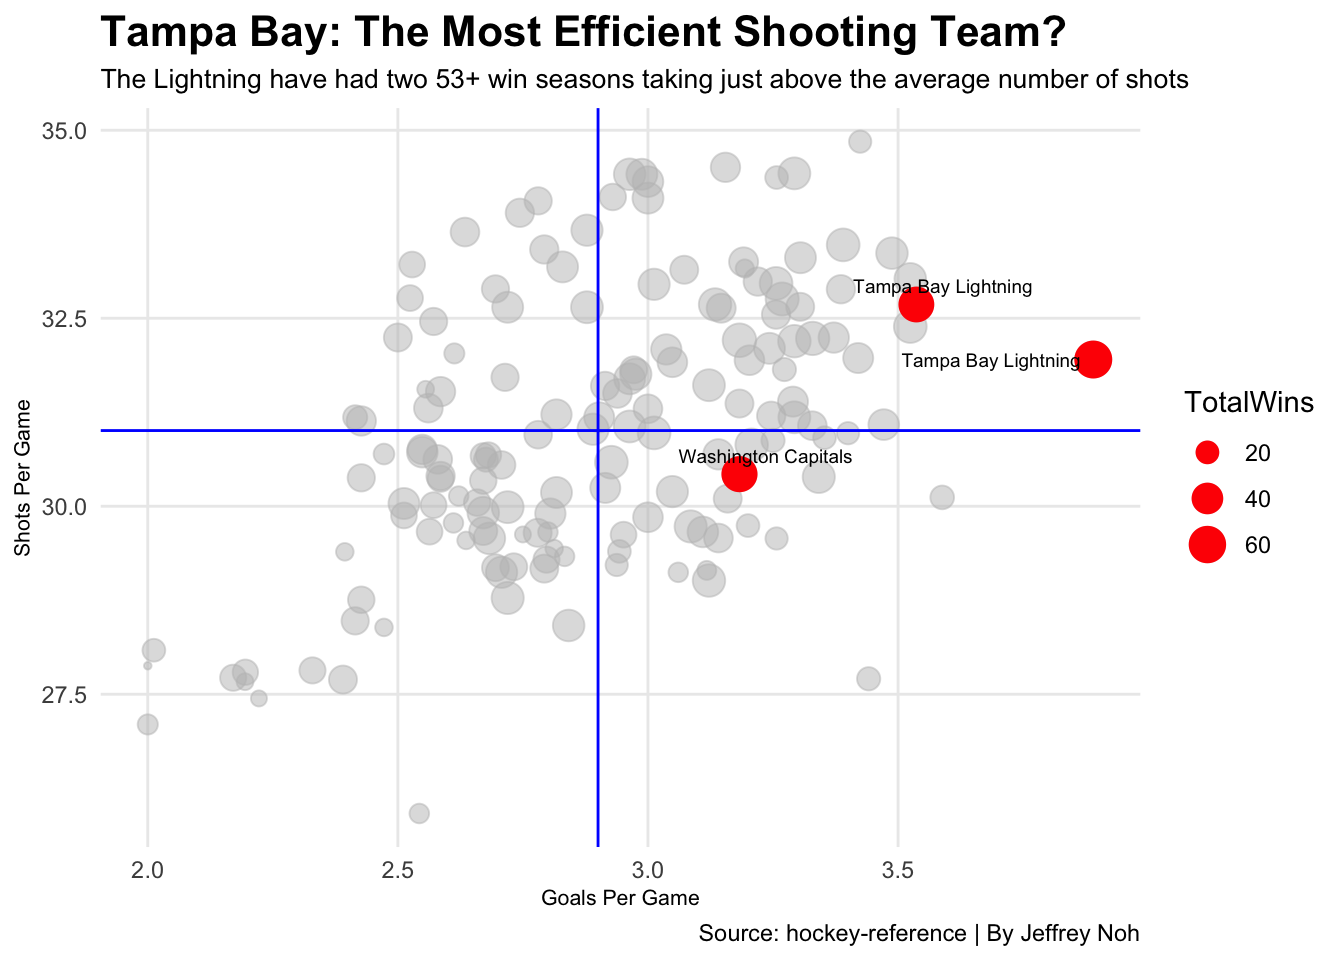
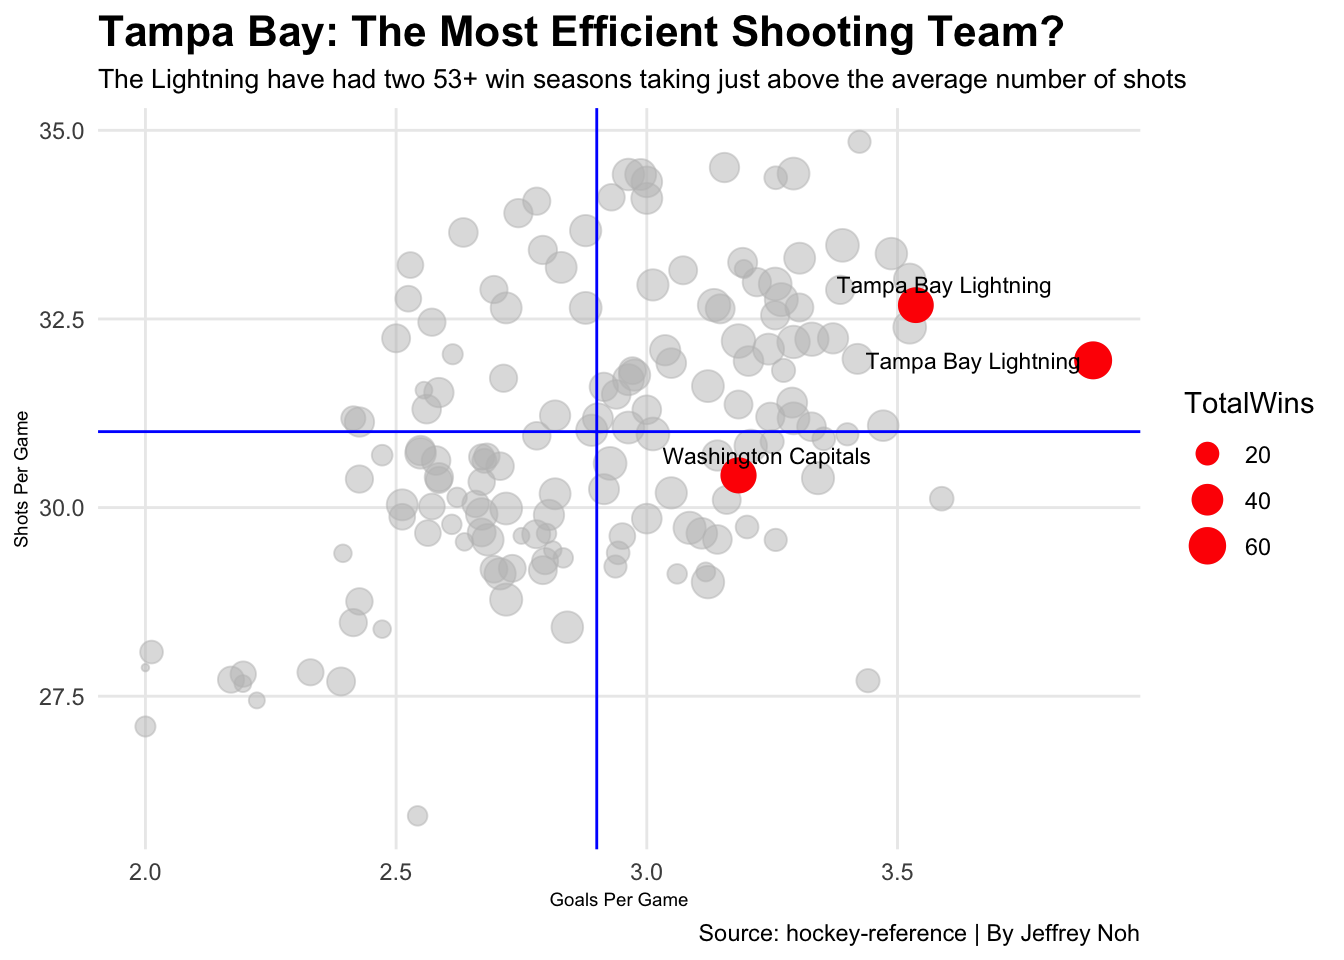
Updates

diff --git a/2021/04/01/shooters-shoot/index.html b/2021/04/01/shooters-shoot/index.html
@@ -78,7 +78,7 @@
 
 <p>Picture this: you walk into your favorite NHL teams’ home ice rink. What is the first thing that you see? Probably the giant screens hanging above center ice known as a jumbotron. You examine the opponents’ statistics. As your eyes make their way down the list, you see a small box labeled “Shots.”</p>
 <p>Most of the time you would overlook it and pay little to no attention to it, but when you look past the fact that it is just a number on a screen, and dig into the statistics, the number of shots is a very interesting category.</p>
-<p>You’re probably thinking, “the more shots a team takes means the better chance of scoring a goal.” And you’re not wrong. But join me in digging into some more in depth numbers.</p>
+<p>You’re probably thinking, “the more shots a team takes means the better chance of scoring a goal;” and you’re not wrong. So, join me in digging deeper into these numbers.</p>
 <p>I’ll show you why this statistic is so fascinating.</p>
 <pre class="r"><code>library(tidyverse)</code></pre>
 <pre><code>## ── Attaching packages ─────────────────────────────────────── tidyverse 1.3.0 ──</code></pre>
@@ -115,7 +115,7 @@ library(kableExtra)</code></pre>
 ## ℹ Use `spec()` for the full column specifications.</code></pre>
 <p>The data set that I will be using consists of the past four NHL season statistics along with this year’s ongoing season. This data set comes from hockey-reference.com.</p>
 <p>Let’s get started.</p>
-<p>The first thing that we need in order to get started is find out the total number of shots and wins that were recorded throughout the last four seasons. The reason that I am not using this season is because teams have only played 34 games which would give us results that do not accurately represent the worst teams.</p>
+<p>The first thing that we need in order to get started is to find the total number of shots and wins that were recorded throughout the last four seasons. The reason that I am not using this season is because teams have only played 34 games, which would give us results that do not accurately represent the worst teams.</p>
 <pre class="r"><code>shottotal &lt;- hockey %&gt;% 
   filter(Season != 2021) %&gt;%
   group_by(Team, Season) %&gt;% 
@@ -153,7 +153,7 @@ losses &lt;- shottotal %&gt;% filter(Wins &lt; 25)</code></pre>
   plot.subtitle = element_text(size = 10),
   panel.grid.minor = element_blank()) </code></pre>
 <p><img src="/2021/04/01/shooters-shoot/index_files/figure-html/unnamed-chunk-5-1.png" width="672" /></p>
-<p>Colorado and Detroit are the two teams that we have circled in our chart. We find an interesting trend. Although Colorado had a significantly greater amount of shots, they still ended with less than 25 wins. Let’s take a look at the correlation of this chart.</p>
+<p>Colorado and Detroit are the two teams that we have circled in our chart; here we find an interesting trend. Although Colorado had a significantly greater amount of shots, they still ended with less than 25 wins. Let’s take a look at the correlation of this chart.</p>
 <p>We see that the amount of shots doesn’t directly influence whether or not a team wins. However, we do see that a majority of teams that have taken more shots tend to win more often.</p>
 <p>Let’s have a look at the 2019 season and compare the Stanley Cup Champions to the worst performing team. How does the team that won the most sought after trophy in hockey compare to the team at the opposite end of the list?</p>
 <pre class="r"><code>season &lt;- hockey %&gt;% filter(Season == 2019) </code></pre>
@@ -210,7 +210,7 @@ With one square representing 50 shots on net, we clearly see that the Lightning 
 ##   goals shots
 ##   &lt;dbl&gt; &lt;dbl&gt;
 ## 1  2.90  31.0</code></pre>
-<p>After getting the correct numbers, and filter out teams with greater than 53 wins, I am able to use ggplot() and run my code.</p>
+<p>After getting the correct numbers, and filtering out teams with more than 53 wins, I am able to use ggplot() and run my code.</p>
 <pre class="r"><code>ggplot() + 
   geom_point(
     data=totalpergame,
@@ -227,20 +227,20 @@ With one square representing 50 shots on net, we clearly see that the Lightning 
              color=&quot;blue&quot;) +
   geom_text_repel(
     data = topteams,
-    aes(x=GPG, y=SPG, label=Team), size = 2.5) + 
+    aes(x=GPG, y=SPG, label=Team), size = 3) + 
   labs(title=&quot;Tampa Bay: The Most Efficient Shooting Team?&quot;, subtitle=&quot;The Lightning have had two 53+ win seasons taking just above the average number of shots&quot;, 
 caption=&quot;Source: hockey-reference | By Jeffrey Noh&quot;, 
 x=&quot;Goals Per Game&quot;, y=&quot;Shots Per Game&quot;)  + 
   theme_minimal() + 
   theme(
     plot.title = element_text(size = 16, face = &quot;bold&quot;),
-    axis.title = element_text(size = 8), 
+    axis.title = element_text(size = 7), 
     plot.subtitle = element_text(size=10), 
     panel.grid.minor = element_blank()
     )</code></pre>
 <p><img src="/2021/04/01/shooters-shoot/index_files/figure-html/unnamed-chunk-13-1.png" width="672" /></p>
-<p>Here we see that the Tampa Bay Lightning have had the best shots on goal to goals scored ratio twice and the Washington Capitals once. An interesting aspect that we can look at is that the top three teams were either just above or just below the average shots per game. If you follow hockey, you probably know that Tampa Bay has been a top tier team throughout the past four years. That being said, does it surprise you that the Lightning are on the chart twice?</p>
-<p>Shots are obviously very important to the game of hockey. However, they are not just numbers that we see on the jumbotron. We can only wonder… will the Lightning continue with their efficient shooting in the future?</p>
+<p>Here we see that the Tampa Bay Lightning has had the best shots on goal to goals scored ratio twice and the Washington Capitals once. An interesting aspect that we can look at is that the top three teams were either just above or just below the average shots per game. If you follow hockey, you probably know that Tampa Bay has been a top tier team throughout the past four years. That being said, does it surprise you that the Lightning are on the chart twice?</p>
+<p>Shots are obviously very important in the game of hockey. However, they are not just numbers that we see on the jumbotron. After examining all of these statistics, we can only wonder… will Tampa Bay continue with their efficient shooting in the future?</p>
 
     </div>
   </article>
